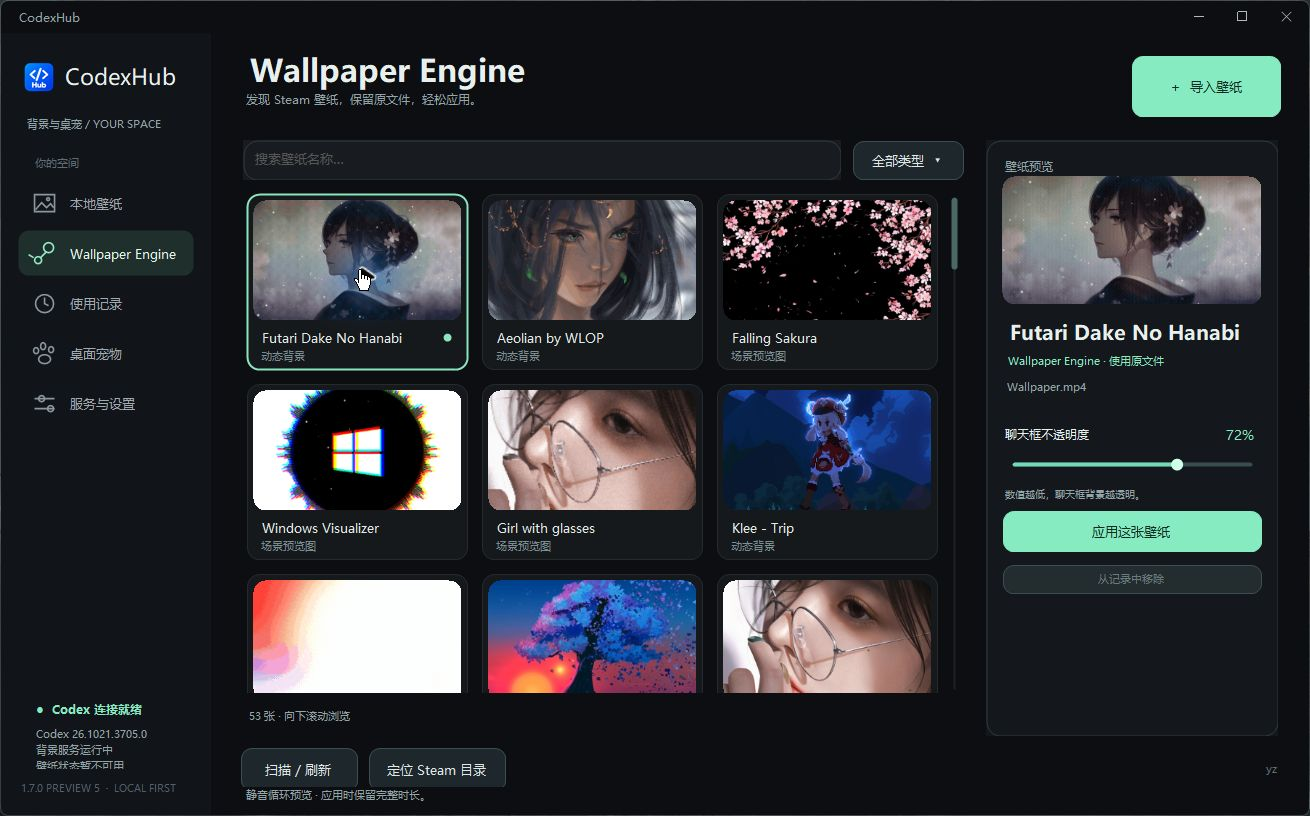
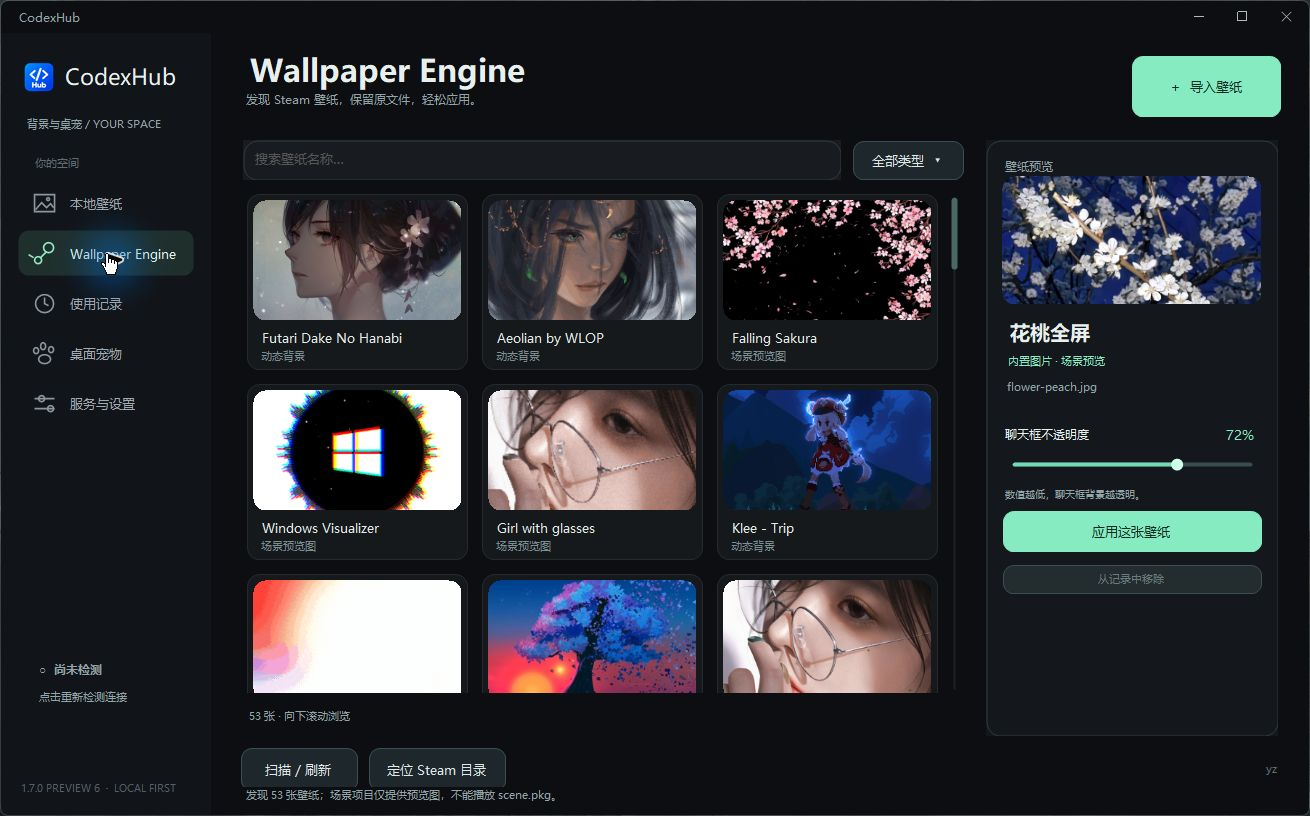
docs: present preview 6 defaults controls and verified downloads

diff --git a/README.md b/README.md
@@ -1,10 +1,10 @@
 # CodexHub
 
-<p align="center"><img src="docs/screenshots/wallpapers.png" alt="CodexHub 本地壁纸与预览" width="100%"></p>
+<p align="center"><img src="docs/screenshots/wallpaper-engine.png" alt="CodexHub Wallpaper Engine 壁纸库" width="100%"></p>
 
 <p align="center">
-  <a href="https://github.com/chenyan-image/codex-live-background/releases/tag/v1.7.0-preview.5"><img src="docs/badges/version.svg" alt="预览版 v1.7.0-preview.5"></a>
-  <a href="https://github.com/chenyan-image/codex-live-background/releases/download/v1.7.0-preview.5/CodexHub-1.7.0-preview.5-Setup.exe"><img src="docs/badges/download-size.svg" alt="EXE 安装包约 165 MiB"></a>
+  <a href="https://github.com/chenyan-image/codex-live-background/releases/tag/v1.7.0-preview.6"><img src="docs/badges/version.svg" alt="预览版 v1.7.0-preview.6"></a>
+  <a href="https://github.com/chenyan-image/codex-live-background/releases/download/v1.7.0-preview.6/CodexHub-1.7.0-preview.6-Setup.exe"><img src="docs/badges/download-size.svg" alt="EXE 安装包约 99 MiB"></a>
   <a href="#安装更新与后台运行"><img src="docs/badges/platform.svg" alt="Windows 10 / 11 x64"></a>
   <a href="LICENSE"><img src="docs/badges/license.svg" alt="MIT License"></a>
 </p>
@@ -12,17 +12,17 @@
 让 Codex 换上喜欢的风景，也有一个会动的小伙伴。动态背景、桌面宠物、任务和额度卡片，都放在一个 Windows 软件里。
 
 <p align="center">
-  <a href="https://github.com/chenyan-image/codex-live-background/releases/download/v1.7.0-preview.5/CodexHub-1.7.0-preview.5-Setup.exe"><img src="docs/badges/download-exe.svg" alt="下载 Windows EXE 安装包 · v1.7.0-preview.5" width="238" height="48"></a>
+  <a href="https://github.com/chenyan-image/codex-live-background/releases/download/v1.7.0-preview.6/CodexHub-1.7.0-preview.6-Setup.exe"><img src="docs/badges/download-exe.svg" alt="下载 Windows EXE 安装包 · v1.7.0-preview.6" width="238" height="48"></a>
 </p>
 
-**[预览版详情](https://github.com/chenyan-image/codex-live-background/releases/tag/v1.7.0-preview.5) · [稳定版](https://github.com/chenyan-image/codex-live-background/releases/latest) · [更新记录](CHANGELOG.md)**
+**[预览版详情](https://github.com/chenyan-image/codex-live-background/releases/tag/v1.7.0-preview.6) · [稳定版](https://github.com/chenyan-image/codex-live-background/releases/latest) · [更新记录](CHANGELOG.md)**
 
 ## 壁纸与背景
 
 - 支持 4K 视频；优先原画质，无法解码时自动生成兼容副本。
 - 图片按比例裁切铺满 Codex，覆盖侧栏和对话区域；聊天框透明度可调。
 - 自动扫描 Wallpaper Engine，支持搜索、筛选、连续向下滚动和预览。
-- 保存壁纸使用记录；内置四个精选背景。雨樱在安装包中只保留静态封面，应用时从 GitHub 下载完整 4K 原片，已有有效原片会直接复用。
+- 保存壁纸使用记录；新装仅附《花桃全屏》静态背景，其他壁纸自行导入或从 Wallpaper Engine 选择。升级保留已有素材。
 - 下载和导入在后台进行，宠物及卡片动画继续运行。
 - 静态缩略图只保留一帧，隐藏预览释放图片；宠物动作采用限量缓存，降低后台常驻占用。
 
@@ -30,26 +30,26 @@
 
 ## 桌面宠物
 
-<p align="center"><img src="docs/screenshots/pets.png" alt="三个宠物、自动启停与胶囊配色设置" width="100%"></p>
+<p align="center"><img src="docs/screenshots/pets.jpg" alt="三个宠物、自动启停与胶囊配色设置" width="100%"></p>
 
 | 鲸鱼娘 | 鲸鱼女仆 | 白龙娘 |
 | :---: | :---: | :---: |
-| 32 项表情与轻动画 | 106 段完整透明动画，随包提供 | 从本机或作者来源加载 25 段完整动画 |
+| 随安装包提供，32 项表情与轻动画 | 随安装包提供，106 段完整透明动画 | 点击从作者 GitHub 下载，或复用本机的 25 段完整动画 |
 
 - 拖动、惯性滑行、随机行走、碰撞反馈，右键可选择各自的动作。
-- 活动范围可设为 Codex 内或整个桌面。只有手动跨屏拖动才换屏，自主运动在当前屏幕内回弹。
-- 可按需开启“跟随 Codex 自动启停”，默认关闭：Codex 最小化、隐藏或关闭时同步退出，打开或恢复可见时自动从托盘启动；仅切换焦点时宠物继续陪伴。
+- 活动范围可设为 Codex 内或整个桌面；Codex 内模式只识别主窗口，不跟随任务栏右键菜单。只有手动跨屏拖动才换屏，自主运动在当前屏幕内回弹。
+- 可按需开启“跟随 Codex 自动启停”，默认关闭：Codex 最小化、隐藏或关闭时同步退出，打开或恢复可见时自动从托盘启动；仅切换焦点时宠物继续陪伴。检测复用已有背景守护进程，更新程序只在安装更新时短暂运行。
 - 任务开始进入工作，结束播放完成动作；空闲动作轮换，长时间无任务只进入一次休息。碎碎念已取消。
 - 点击胶囊看当前任务，点击圆环看剩余额度、重置时间与 Token 曲线。卡片平滑展开，跟随宠物继续移动。
-- “统一配色”一次更改左侧 Hub 按钮、中间胶囊和右侧圆环，也可分别选色；胶囊不透明度用 0%～100% 滑条调节并实时预览，文字保持清晰，字号略微加大。
+- 展开任务卡片跟随胶囊颜色，额度卡片跟随圆环颜色。“统一配色”一次更改左侧 Hub 按钮、中间胶囊和右侧圆环，也可分别选色；左右圆环和胶囊共用 0%～100% 不透明度滑条，实时预览，文字保持清晰，字号略微加大。
 - 宠物与胶囊分别调节，范围均为 70%～150%。鲸鱼女仆新 100% 对应此前 80% 的实际大小，胶囊比例独立。
 - 鲸鱼女仆的没钱系列仅在真实剩余额度低于 10% 时自动随机播放。
 
 ## 安装、更新与后台运行
 
-1. [下载 `CodexHub-1.7.0-preview.5-Setup.exe`](https://github.com/chenyan-image/codex-live-background/releases/download/v1.7.0-preview.5/CodexHub-1.7.0-preview.5-Setup.exe)，选择安装目录，无需解压。
+1. [下载 `CodexHub-1.7.0-preview.6-Setup.exe`](https://github.com/chenyan-image/codex-live-background/releases/download/v1.7.0-preview.6/CodexHub-1.7.0-preview.6-Setup.exe)，选择安装目录，无需解压。
 2. 选择或导入壁纸，预览后点击应用；按需启用桌面宠物。
-3. 在 **服务与设置 → 更新软件** 获取 GitHub 程序更新。更新包只替换程序，壁纸、宠物素材、设置和记录保留。
+3. 在 **服务与设置 → 更新软件** 获取 GitHub 程序更新。更新包只替换程序，壁纸、宠物素材、设置和记录保留；每次启动通过公开频道检查 GitHub 更新，避免匿名 API 限流；有新版时在更新按钮上显示小红点，点击后才安装。
 
 <p align="center"><img src="docs/screenshots/settings.png" alt="服务与设置中的更新软件按钮" width="100%"></p>
 
@@ -79,7 +79,7 @@
 | 分辨率与动画 | 单边最高 **16384 像素**，总像素最高 **50 MP**；图片动画最多 **300 帧**。 |
 | 播放方式 | 视频静音循环；转换保留完整时长，原素材不被修改。 |
 
-本预览 EXE 已包含校验过的 FFmpeg 运行时，用于透明桌宠和视频兼容处理，无需额外安装解码器。[兼容与离线使用说明](docs/guide.md#首次转换需要的下载)
+鲸鱼女仆的完整动画已经内置；为减小安装包，通用播放／视频转换组件首次需要时下载并校验，之后复用本机缓存，已有组件保留。[兼容与离线使用说明](docs/guide.md#首次转换需要的下载)
 
 
 ## 项目来源

diff --git a/docs/release-1.7.0-preview.6.md b/docs/release-1.7.0-preview.6.md
@@ -1,0 +1,23 @@
+# CodexHub 1.7.0-preview.6
+
+内部构建 **1.7.0.9**。1.7.0.8 是此前本地检查用候选；递增构建号使候选也能收到本次修复。功能分支 feature/pet-companion，稳定版 latest 保持 v1.5.4.5。
+
+## 更新内容
+
+- 任务卡片跟随胶囊颜色，额度卡片跟随圆环颜色，图表、文字和刷新图标一起适配。左右圆形底色与中间胶囊共用不透明度滑条，Logo 和文字保持清晰，旧设置数值沿用。
+- 公开更新频道优先检查，避免 GitHub 匿名 API 限流导致的 403。成功结果短时缓存，并发检查合并；接口受限时显示重试时间，下载仍验证版本、大小和 SHA-256。
+- 启动时仅检查 GitHub；有可用版本时“更新软件”按钮显示小红点，点击后才下载和安装。无更新时显示当前预览名称和内部构建号，避免把预览误称正式最新版。
+- “跟随 Codex”检测移入已有背景守护，退役旧 updater Run 登记。CodexHubUpdater.exe 只在实际更新时短暂运行。程序更新会合作停止并恢复自己的守护，Codex 聊天窗口不关闭。
+- 左下角连接区增加空间；点击立即显示连接或排队进度，实际核对服务与端口。连接可用但皮肤丢失时恢复保存的壁纸，尊重暂停。守护中的渲染健康检查处理启动加载后的样式丢失。
+- 从校验过的 preview.3、preview.4、preview.5 安装包提取封闭历史清单与 EXE 指纹，修复合法旧文件被误判“未经核验”以及安装标记缺失后的重试。安装源在停止服务前整包验证；可接管文件与任务归属均核验通过的旧服务路径，未知来源仍拒绝。
+- 预览模式禁止修改真实服务、连接和程序安装，避免测试窗口与已安装程序争用控制权。
+- 新安装仅附《花桃全屏》壁纸；鲸鱼娘与鲸鱼女仆内置，白龙娘保留作者下载入口。女仆的 106 段完整动画随包提供，无需再次下载动画；通用播放／视频转换组件首次需要时下载并缓存。
+- 两个角色预览按身体轮廓正常居中显示。白龙娘从作者固定 GitHub 版本获取约 0.4 MB 预览，缓存后复用，不必先下载完整动作。
+- Codex 内模式只识别已验证主窗口，排除任务栏右键菜单、跳转列表和工具窗口。
+- 程序更新保留壁纸、宠物、通用运行时、个人设置与记录；只更新程序和必要的守护代码。已安装同版本或更高版本时，从检查／下载目录打开会复用已验证安装入口，减少不同路径造成的混用。
+
+## 验证与边界
+
+独立卡片配色、三处共享透明度、更新红点仅提示、新装两只内置与一个下载入口、106 段动画完整性、已安装入口复用、主窗口筛选和连接反馈的 38 项检查通过。另有跟随与外观 64 项、旧登记迁移 10 项、内嵌跟随与合作更新守护 13 项、内置组件迁移与失败回滚 15 项、导入与程序更新 32 项通过。连接／恢复 13 项、渲染健康 15 项、历史安装清单 8 项、安装源预检 17 项、独立服务路径识别 12 项、更新频道与限流 73 项通过。实际 EXE、程序更新宿主和卸载流程另外校验，结果与哈希见发行附件。
+
+未操作实际 Codex 的退出、最小化或登录资料，也未重启电脑模拟开机。此前恢复显示偶尔超过 150 ms 的问题继续保留为未完全解决项，不以功能检查代替严格时序证明。

diff --git a/docs/bundled-wallpapers.md b/docs/bundled-wallpapers.md
@@ -1,32 +1,5 @@
-# 内置精选背景
+# 默认壁纸
 
-原先六张程序生成背景已从安装包和默认库中移除，升级同时清理它们的内置记录，保留用户自己的导入和原文件。
+预览 6 新安装只附《花桃全屏》的静态预览图片，不包含壁纸视频。它可以按比例裁切铺满 Codex。来源、大小和 SHA-256 保留在 source/assets/wallpapers/catalog.json 与 NOTICE 中，原始 Steam 素材不修改。
 
-| 默认名称 | 使用的素材 | 原项目 |
-| --- | --- | --- |
-| 花桃全屏 | 原项目 JPG 预览图 | [3552423078](https://steamcommunity.com/sharedfiles/filedetails/?id=3552423078) |
-| Kamisato Ayaka 神里绫华 | 原项目 JPG 预览图 | [3301717199](https://steamcommunity.com/sharedfiles/filedetails/?id=3301717199) |
-| 月光下的德累斯顿 | 原项目动态预览 GIF | [3200802205](https://steamcommunity.com/sharedfiles/filedetails/?id=3200802205) |
-| 雨樱【Rain Sakura】- 4K | 完整 H.264 原片，3840×2160、30 FPS、86.7 秒、101871488 字节 | [2970331102](https://steamcommunity.com/sharedfiles/filedetails/?id=2970331102) |
-
-安装包提供四项预览，其他电脑无需原电脑的 Steam 路径。《雨樱》仅附静态封面，应用时从 GitHub 发行页下载完整 4K 原片并校验；已经存在的有效原片直接复用。宠物动画仍随包提供，不受壁纸按需下载影响。三个场景项目使用已提供的图片或 GIF 预览，不执行 scene.pkg。
-
-这些是用户指定的第三方素材，原始来源和 SHA256 记录于 source/assets/wallpapers/catalog.json 及对应 NOTICE；不纳入软件代码的 MIT 授权。
-
-以下为历史记录：
-
-# v1.5.3 历史附带素材
-
-**v1.5.4 起，以下三项已从安装包和默认壁纸库中移除，以减小体积。** 当时的 v1.5.4 版本只保留六张程序生成背景；当前版本采用上表四项。用户自己的 Steam 原文件和本地导入功能保留。
-
-以下记录仅说明 v1.5.3 曾附带的素材来源，不代表当前安装包仍包含这些视频或图片。
-
-| 安装后名称 | 类型 | 原项目 |
-| --- | --- | --- |
-| 水中会说话的眼睛 | 4K / 60 FPS 视频，约 9.71 秒 | [水中会说话的眼睛（过渡稍微好点版）](https://steamcommunity.com/sharedfiles/filedetails/?id=3582218429) |
-| 会说话的眼睛2 | 4K / 60 FPS 视频，10 秒 | [会说话的眼睛2](https://steamcommunity.com/sharedfiles/filedetails/?id=3488045446) |
-| 零二 02 FRANXX | 静态 JPG 预览图 | [零二 02 FRANXX](https://steamcommunity.com/sharedfiles/filedetails/?id=3295448069) |
-
-这些第三方素材的权利归各自作者、角色和相关权利人所有，不作为本仓库原创作品，也不纳入软件代码的 MIT 授权。仓库中的截图用于展示软件界面。第三项不包含或运行原 `scene.pkg` 场景。
-
-历史文件名和校验值见 [v1.5.3 素材清单](https://github.com/chenyan-image/codex-live-background/blob/v1.5.3/source/bundled-wallpapers.json)。当前源码构建不再需要素材目录参数。
+其他背景可自行导入或在 Wallpaper Engine 页面选择。已有电脑上的已下载视频、个人壁纸与使用记录保留；程序更新不替换素材。预览 3～5 曾提供的其他默认素材属于历史发行，当前新装包不再附带。宠物动画的下载方式见 [桌面宠物](desktop-pets.md)。

diff --git a/docs/plans/2026-10-27-preview6-repairs.md b/docs/plans/2026-10-27-preview6-repairs.md
@@ -1,0 +1,16 @@
+# Preview 6 repair scope
+
+Accepted user scope: task and quota cards inherit their own capsule/ring colors; preserve local data through in-app updates and check for a program update once per startup; unclipped, actionable connection footer with visible progress; upgrade preview.3/.4/.5 without rejecting verified historical files; bundle Flower Peach, whale girl and whale maid; keep white dragon downloadable; Codex-only pets attach exclusively to actual main windows; restore saved wallpaper after app/Windows startup.
+
+Observed mechanisms:
+- Native install marker is a union of historical and updated files, but the newer installer trusts only its own current filenames. Retired documentation, pet descriptors and former bundled video make legitimate upgrades fail. Use a closed catalog generated from verified historical release manifests, canonical relative paths and existing traversal checks. Reject unknown files; do not trust arbitrary installed manifests.
+- Main-window discovery accepts any sufficiently large window belonging to the official process and prefers the foreground window. Reject owned/tool/popup windows and non-Electron main classes, share the criterion with visibility tracking.
+- Footer click invokes read-only `Connection`; concurrent status requests are silently ignored. Route explicit clicks to `Connect`, show progress immediately, queue one retry, allocate adequate footer height, and repair a missing renderer skin without closing Codex.
+- The watcher treats an existing session and early injection marker as sufficient, without periodically checking whether the saved background is still installed after startup hydration. Add bounded health checks and restore only the verified saved theme; respect pause/removal and do not restart Codex.
+- Expanded cards hard-code blue colors. Generate task palette from capsule color and quota palette from ring color, including expansion origin, chart and refresh glyph.
+
+Preserve all personal materials/settings/history through program updates. A separate daily-check record may be written, never reset user preferences. Fresh installations omit video decoder binaries and optional pet media; obtain the pinned, hashed decoder only when a selected feature needs it. Preserve existing downloaded pets and runtimes. Keep Flower Peach as the sole new bundled wallpaper. Publish a new immutable preview rather than replacing preview.5.
+
+Order: historical upgrade proof -> window/connection/startup repairs -> card palettes/daily update -> cloud materials/slim build -> focused tests -> actual update and screenshots -> final EXE/update/assets and GitHub release. Do not repeat old manager resize tests or close the actual Codex chat. The occasional 150 ms restoration latency remains an open issue.
+
+Latest user corrections (same ongoing task): whale maid is bundled again with all 106 animations, white dragon alone remains an author download. Enlarge/crop avatar previews using the existing body bounds. Shared opacity controls both circle backgrounds and the capsule; text/logo remain clear. Startup checks only notify with a red dot, never install automatically; updater is transient. Reuse the existing guard for follow detection and migrate away from the legacy updater Run entry. Increment final internal build to 1.7.0.9 so local candidate 1.7.0.8 can receive fixes. External tag remains preview.6.

diff --git a/CHANGELOG.md b/CHANGELOG.md
@@ -2,6 +2,20 @@
 
 原始项目：[xxloocee/Codex-Dream-Skin-Manager](https://github.com/xxloocee/Codex-Dream-Skin-Manager)。本仓库仅记录基于原项目的 Bug 修复、兼容处理和源码精简；原引擎来自 [Fei-Away/Codex-Dream-Skin](https://github.com/Fei-Away/Codex-Dream-Skin)。
 
+## v1.7.0-preview.6 — 安装修复、内置女仆与更新提示
+
+- 任务卡片跟随胶囊颜色，额度卡片跟随圆环颜色，图表、文字和刷新图标一起适配。左右圆形底色与中间胶囊共用不透明度滑条，Logo 和文字保持清晰，旧设置数值沿用。
+- 公开更新频道优先检查，避免 GitHub 匿名 API 限流导致的 403。成功结果短时缓存，并发检查合并；接口受限时显示重试时间，下载仍验证版本、大小和 SHA-256。
+- 启动时仅检查 GitHub；有可用版本时“更新软件”按钮显示小红点，点击后才下载和安装。无更新时显示当前预览名称和内部构建号，避免把预览误称正式最新版。
+- “跟随 Codex”检测移入已有背景守护，退役旧 updater Run 登记。CodexHubUpdater.exe 只在实际更新时短暂运行。程序更新会合作停止并恢复自己的守护，Codex 聊天窗口不关闭。
+- 左下角连接区增加空间；点击立即显示连接或排队进度，实际核对服务与端口。连接可用但皮肤丢失时恢复保存的壁纸，尊重暂停。守护中的渲染健康检查处理启动加载后的样式丢失。
+- 从校验过的 preview.3、preview.4、preview.5 安装包提取封闭历史清单，修复合法旧文件被误判“未经核验”。未知文件、外部路径和不明安装仍拒绝。
+- 新安装仅附《花桃全屏》壁纸；鲸鱼娘与鲸鱼女仆内置，白龙娘保留作者下载入口。女仆的 106 段完整动画随包提供，无需再次下载动画；通用播放／视频转换组件首次需要时下载并缓存。
+- 两个角色预览按身体轮廓正常居中显示。白龙娘从作者固定 GitHub 版本获取约 0.4 MB 预览，缓存后复用，不必先下载完整动作。
+- Codex 内模式只识别已验证主窗口，排除任务栏右键菜单、跳转列表和工具窗口。
+- 程序更新保留壁纸、宠物、通用运行时、个人设置与记录；只更新程序和必要的守护代码。已安装同版本或更高版本时，从检查／下载目录打开会复用已验证安装入口，减少不同路径造成的混用。
+
+
 ## v1.7.0-preview.5 — 跟随启停与胶囊外观
 
 - 桌面宠物新增默认关闭的“跟随 Codex 自动启停”：最小化、隐藏或退出后正常退出管理器与宠物；打开或恢复 Codex 时在托盘启动。失去焦点不退出，多窗口任一可见即可保持运行。
